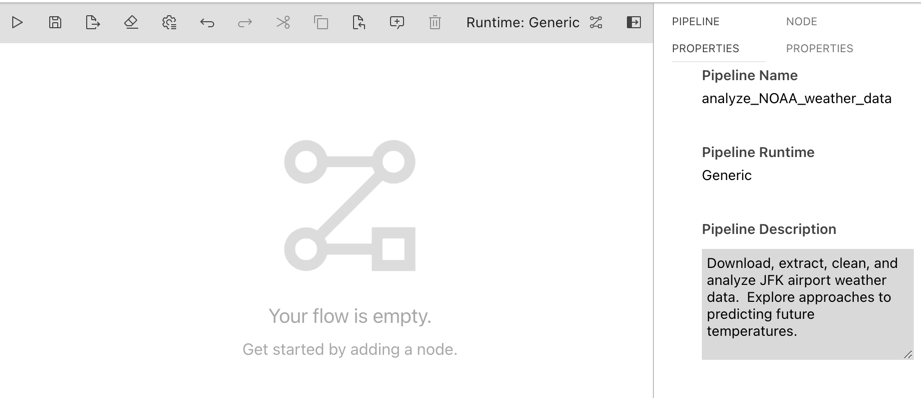
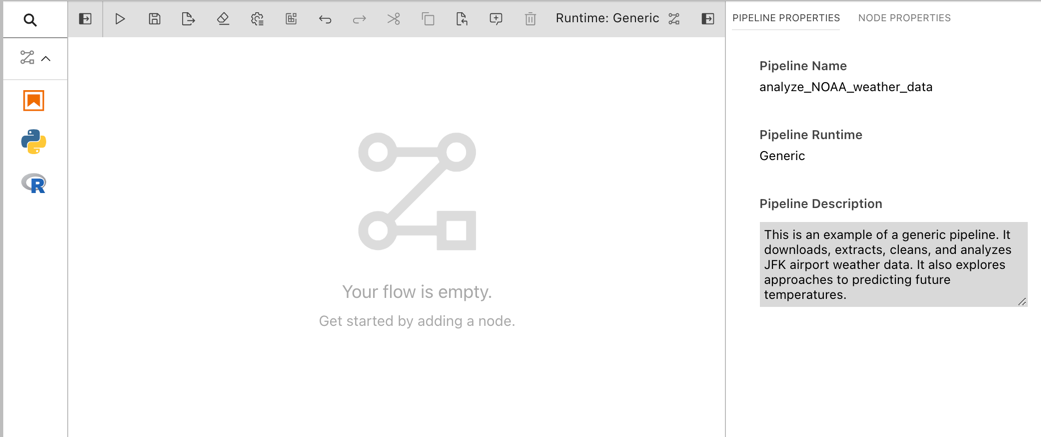
Refresh screen captures and imrove content

diff --git a/docs/source/user_guide/pipelines.md b/docs/source/user_guide/pipelines.md
@@ -20,19 +20,21 @@ limitations under the License.
 
 ### Overview
 
-A pipeline comprises of one or more nodes that are (in many cases) connected with each other to define execution dependencies. A node is an instance of a configurable component that typically only implements one unit of work. A unit of work can represent any task, such as load data, cleanse data, analyze data, train a machine learning model, deploy a model for serving, query a service, or send an email. 
+A _pipeline_ comprises one or more _nodes_ that are (in many cases) connected with each other to define execution _dependencies_. A node is an instance of a configurable _[component](pipeline-components.md)_ that commonly only implements a single unit of work to make it reusable. A unit of work can represent any task, such as loading data, pre-processing data, analyzing data, training a machine learning model, deploying a model for serving, querying a service, or sending an email. 
 
 ![Conceptual pipeline overview](../images/user_guide/pipelines/pipelines-nodes.png)
 
-Note though that multiple components might implement the "same" task. For example, one component might load data from a SQL database, whereas another component might load data from a NoSQL database. Conceptually both components load data, but how they load it is entirely different.
+Note though that multiple components might implement the "same" task. For example, one component might load data from a SQL database, whereas another component might download data from S3 storage. Conceptually both components load data, but how they load it is entirely different.
 
 Elyra supports two types of components: generic components and custom components. A pipeline that utilizes only generic components is called a generic pipeline, whereas a pipeline that utilizes generic components and/or custom components is referred to as typed pipeline.
 
-![Conceptual pipeline overview](../images/user_guide/pipelines/pipelines-nodes-components.png)
+Pipelines are assembled using the Visual Pipeline Editor. The editor includes a palette, the canvas, and a properties panel, shown on the left, in the center, and the right, respectively.
 
-The [_Pipeline components_ topic in the User Guide](pipeline-components.md) provides a comprehensive component overview. Please review the [_Best practices for file-based pipeline nodes_ topic](best-practices-file-based-nodes.md) if your pipelines include generic components.
+![The Visual Pipeline Editor is used to assemble pipelines](../images/user_guide/pipelines/pipeline-editor.png)
 
-Elyra pipelines support three types of runtime platforms:
+Please review the [_Best practices for file-based pipeline nodes_ topic in the _User Guide_](best-practices-file-based-nodes.md) if your pipelines include generic components.
+
+Elyra pipelines support three runtime platforms:
 - Local/JupyterLab
 - [Kubeflow Pipelines](https://www.kubeflow.org/docs/components/pipelines/) (with Argo or [Tekton](https://github.com/kubeflow/kfp-tekton/) workflow engines)
 - [Apache Airflow](https://airflow.apache.org/)
@@ -52,42 +54,49 @@ A typed pipeline is permanently associated with a runtime platform, such as Kube
 
 ![A Kubeflow Pipelines pipeline](../images/user_guide/pipelines/typed-pipeline.png)
 
-Note that it is not possible to convert a pipeline from one type to another.
+For illustrative purposes the Elyra component registry includes a couple example custom components. You can add your own components as outlined in [_Managing custom components_](https://elyra.readthedocs.io/en/latest/user_guide/pipeline-components.html#managing-custom-components).
 
-The [tutorials](/getting_started/tutorials.md) provide comprehensive step-by-step instructions for creating and running pipelines.
+Note that it is not possible to convert a generic pipeline to a typed pipeline or a typed pipeline from one type to another.
 
 ### Creating pipelines using the Visual Pipeline Editor
 
-To create a pipeline using the editor:
+The [tutorials](/getting_started/tutorials.md) provide comprehensive step-by-step instructions for creating and running pipelines. To create a pipeline using the editor:
 
 1. Open the JupyterLab Launcher and select the desired pipeline editor type (Generic, Kubeflow Pipelines, or Apache Airflow).
 
    ![Pipeline editor links in launcher](../images/user_guide/pipelines/editor-links.png)
 
-1. Define pipeline properties. Pipeline properties include a description and default values for node properties. 
+1. Expand the properties panel and define the pipeline properties. Pipeline properties include a description and default values for node properties. (Support for pipeline properties varies by release.)
 
    ![Pipeline properties](../images/user_guide/pipelines/pipeline-properties.png)
 
-   Many pipeline properties values can be overridden by node properties. For example, if you set a pipeline default value for `runtime image` to `my-org/my-container-image`, all generic nodes would use this image. To use a different container image `my-org/my-other-container-image` in one of the generic nodes, set the property to a different value in that node.
+1. Drag and drop components from the palette onto the canvas or double click on a palette entry.
 
-   Note: Support for pipeline properties varies by release.
+   ![Add components from palette](../images/user_guide/pipelines/add-components-from-palette.gif)
 
-1. Drag and drop components from the palette onto the canvas.
+   You can also drag and drop Jupyter notebooks, Python scripts, or R scripts from the JupyterLab _File Browser_ onto the canvas.
 
-   ![Add component from palette](../images/user_guide/pipelines/add-component-from-palette.png)
+   ![Add generic components from file browser](../images/user_guide/pipelines/add-components-from-file-browser.gif)
 
-   Note: You can also drag and drop Jupyter notebooks, Python scripts, or R scripts from the JupyterLab _File Browser_ onto the canvas.
+1. Define the dependencies between nodes by connecting them, essentially creating an execution graph.
 
-1. Define the runtime properties for each node. (Right click, `Open Properties`)
+   ![Connect nodes](../images/user_guide/pipelines/connect-nodes.gif)
+
+1. Define the runtime properties for each node. Highlight a node, right click, and select `Open Properties`. Runtime properties configure a component and govern its execution behavior.
+
+   ![Configure node](../images/user_guide/pipelines/configure-node.gif)
 
    Runtime properties are component specific. For generic components (Jupyter notebook, Python script, and R script) the properties are defined as follows:
 
    **Runtime Image**
-   - Required. The container image you want to use to run your notebook. 
+   - Required. The container image you want to use to run the notebook or script. 
    - Example: `TensorFlow 2.0`
 
+   **CPU, GPU, and RAM**
+   - Optional. Resources that the notebook or script requires. 
+
    **File Dependencies**
-   - Optional. A list of files to be passed from the `LOCAL` working environment into each respective step of the pipeline. Files should be in the same directory as the notebook it is associated with. Specify one file, directory, or expression per line. Supported patterns are `*` and `?`. 
+   - Optional. A list of files to be passed from the local working environment into each respective step of the pipeline. Files should be in the same directory (or subdirectory thereof) as the file it is associated with. Specify one file, directory, or expression per line. Supported patterns are `*` and `?`. 
    - Example: `dependent-script.py`
 
    **Environment Variables**
@@ -98,15 +107,13 @@ To create a pipeline using the editor:
    - Optional. A list of files generated by the notebook inside the image to be passed as inputs to the next step of the pipeline.  Specify one file, directory, or expression per line. Supported patterns are `*` and `?`.
    - Example: `data/*.csv`
 
-1. Define the dependencies between nodes by connecting them, essentially creating a graph.
-
-   ![Connect nodes and add comments](../images/user_guide/pipelines/connect-and-comment.gif)
-
 1. Associate each node with a comment to document its purpose.
+
+   ![Add comment to node](../images/user_guide/pipelines/add-comment-to-node.gif)
 
 1. Save the pipeline file.
 
-   Note: You can rename the pipeline file in the JupyterLab _File Browser_.
+Note: You can rename the pipeline file in the JupyterLab _File Browser_.
 
 ### Running pipelines
 
@@ -115,7 +122,7 @@ Pipelines can be run from the Visual Pipeline Editor and the `elyra-pipeline` co
 **Running a pipeline from the Visual Pipeline Editor**
 
 To run a pipeline from the Visual Pipeline Editor:
-1. Click `Run Pipeline`in the editor's tool bar.
+1. Click `Run Pipeline` in the editor's tool bar.
 
    ![Open pipeline run wizard](../images/user_guide/pipelines/pipeline-editor-run.png)
 
@@ -168,4 +175,6 @@ To export a pipeline from the Visual Pipeline Editor:
 1. Select an export format.
    
    ![Configure pipeline export options](../images/user_guide/pipelines/configure-pipeline-export-options.png)
+
+1. Import the exported pipeline file using the Kubeflow Central Dashboard or add it to the Git repository that Apache Airflow is utilizing.   
  
